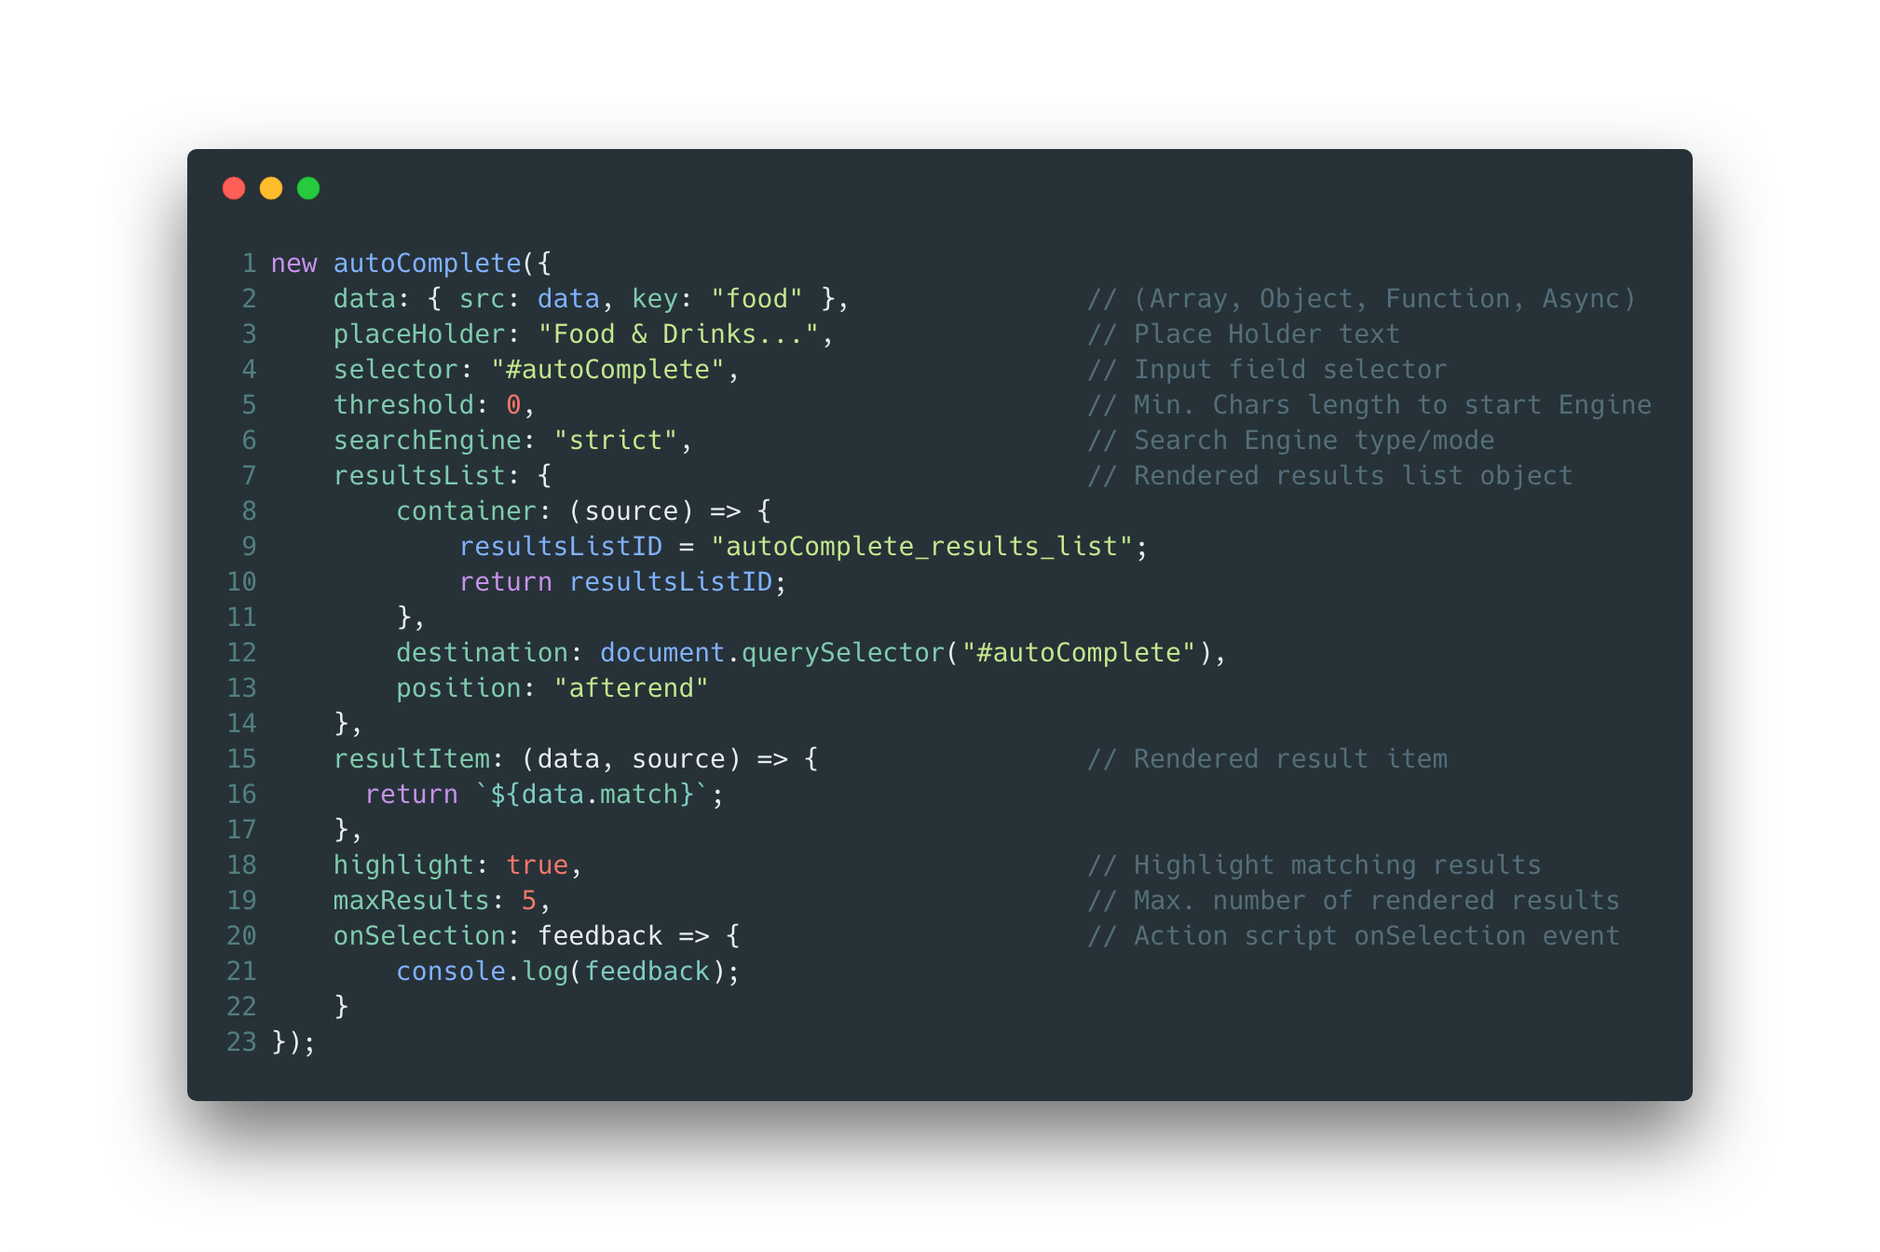
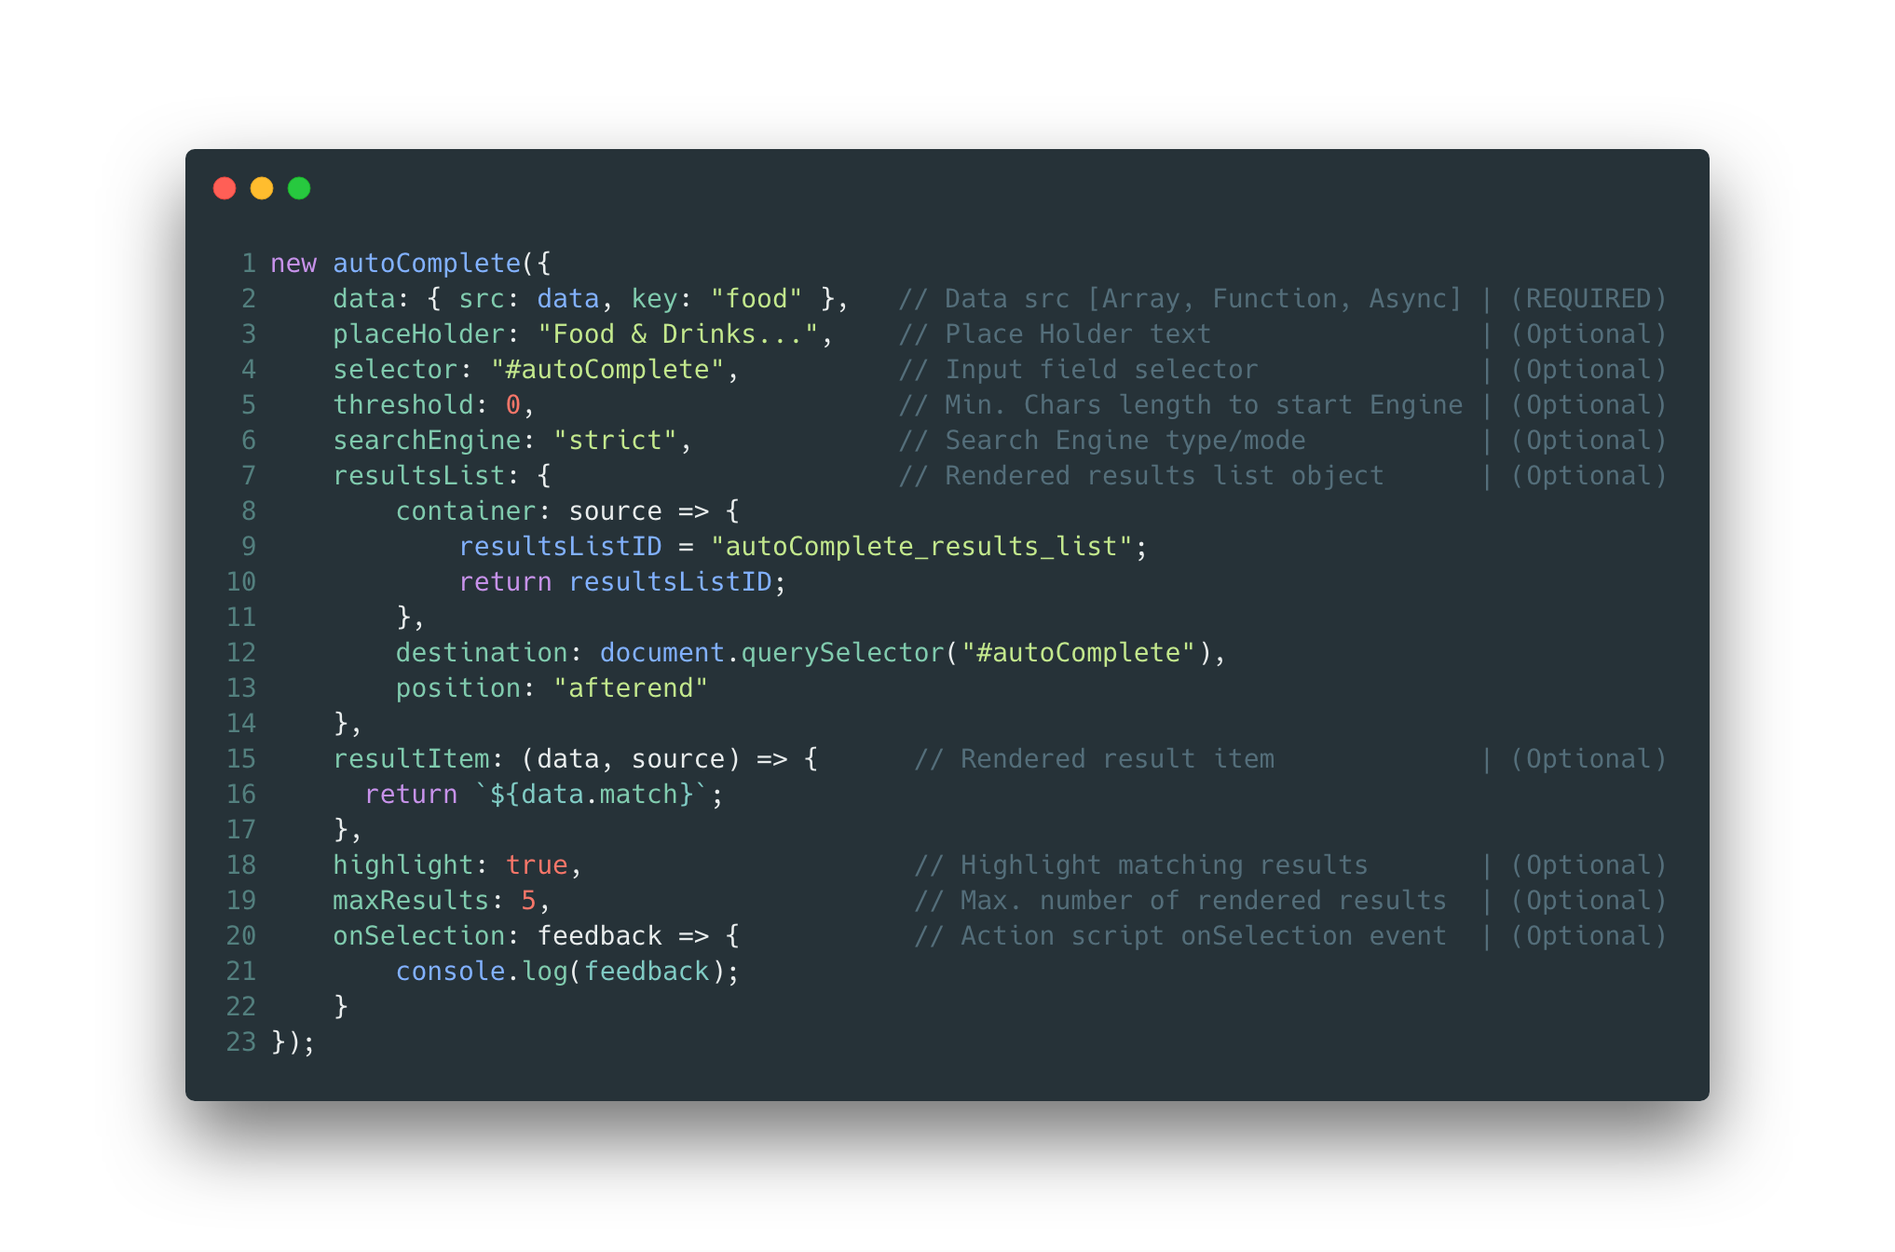
Version 3.2.2 => Release History for details

diff --git a/dist/js/autoComplete.min.js b/dist/js/autoComplete.min.js
@@ -1,1 +1,1 @@
-var a,b;a=this,b=function(){"use strict";function i(t,e){for(var s=0;s<e.length;s++){var n=e[s];n.enumerable=n.enumerable||!1,n.configurable=!0,"value"in n&&(n.writable=!0),Object.defineProperty(t,n.key,n)}}var a="data-result",l={resultsList:"autoComplete_results_list",result:"autoComplete_result",highlight:"autoComplete_highlighted"},u=function(t){return"string"==typeof t?document.querySelector(t):t()},c=function(t){return t.innerHTML=""},h=u,r=function(t){var e=document.createElement("ul");return t.container&&(l.resultsList=t.container(e)||l.resultsList),e.setAttribute("id",l.resultsList),t.destination.insertAdjacentElement(t.position,e),e},f=function(t){return"<span class=".concat(l.highlight,">").concat(t,"</span>")},o=function(i,r,o,u){r.forEach(function(t,e){var s=document.createElement("li"),n=r[e].source[o]||r[e].source;s.setAttribute(a,n),s.setAttribute("class",l.result),s.setAttribute("tabindex","1"),s.innerHTML=u?u(t,s):t.match||t,i.appendChild(s)})},d=function(t,s){var n=u(t),i=s.firstChild;document.onkeydown=function(t){var e=document.activeElement;switch(t.keyCode){case 38:e!==i&&e!==n?e.previousSibling.focus():e===i&&n.focus();break;case 40:e===n&&0<s.childNodes.length?i.focus():e!==s.lastChild&&e.nextSibling.focus()}}},p=c,v=function(s,n,i,r,o){n.querySelectorAll(".".concat(l.result)).forEach(function(e){["mousedown","keydown"].forEach(function(t){e.addEventListener(t,function(e){"mousedown"!==t&&13!==e.keyCode||(i({event:e,query:u(s).value,results:r.map(function(t){return t.source}),selection:r.find(function(t){return(t.source[o]||t.source)===e.target.closest(".".concat(l.result)).getAttribute(a)}).source}),c(n))})})})};return function(){function e(t){!function(t,e){if(!(t instanceof e))throw new TypeError("Cannot call a class as a function")}(this,e),this.selector=t.selector||"#autoComplete",this.data={src:function(){return"function"==typeof t.data.src?t.data.src():t.data.src},key:t.data.key},this.searchEngine="loose"===t.searchEngine?"loose":"strict",this.threshold=t.threshold||0,this.resultsList=r({container:t.resultsList.container,destination:t.resultsList.destination?t.resultsList.destination:h(this.selector),position:t.resultsList.position?t.resultsList.position:"afterend"}),this.placeHolder=t.placeHolder,this.maxResults=t.maxResults||5,this.resultItem=t.resultItem,this.highlight=t.highlight||!1,this.onSelection=t.onSelection,this.init()}var t,s,n;return t=e,(s=[{key:"search",value:function(t,e){var s=this.highlight,n=e.toLowerCase();if("loose"===this.searchEngine){t=t.replace(/ /g,"");for(var i=[],r=0,o=0;o<n.length;o++){var u=n[o];r<t.length&&u===t[r]&&(u=s?f(u):u,r++),i.push(u)}return r===t.length&&i.join("")}if(n.includes(t)&&s){var a=h(this.selector).value.toLowerCase();return n.replace(a,f(a))}}},{key:"listMatchedResults",value:function(t){var s=this,n=[],i=h(this.selector).value.toLowerCase();t.filter(function(t){var e=s.search(i,t[s.data.key]||t);e&&n.push({match:e,source:t})});var e=n.slice(0,this.maxResults);return o(this.resultsList,e,this.data.key,this.resultItem),d(this.selector,this.resultsList),e}},{key:"ignite",value:function(s){var n=this,i=this.selector,r=h(i),t=this.placeHolder,o=this.onSelection;t&&r.setAttribute("placeholder",t),r.onkeyup=function(){var t=n.resultsList;p(t);if(r.value.length>n.threshold&&r.value.replace(/ /g,"").length){var e=n.listMatchedResults(s);o&&v(i,t,o,e,n.data.key)}}}},{key:"init",value:function(){var e=this,t=this.data.src();t instanceof Promise?t.then(function(t){return e.ignite(t)}):this.ignite(t)}}])&&i(t.prototype,s),n&&i(t,n),e}()},"object"==typeof exports&&"undefined"!=typeof module?module.exports=b():"function"==typeof define&&define.amd?define(b):a.autoComplete=b();
+var a,b;a=this,b=function(){"use strict";function n(t,e){for(var s=0;s<e.length;s++){var i=e[s];i.enumerable=i.enumerable||!1,i.configurable=!0,"value"in i&&(i.writable=!0),Object.defineProperty(t,i.key,i)}}var a="data-result",l={resultsList:"autoComplete_results_list",result:"autoComplete_result",highlight:"autoComplete_highlighted"},u=function(t){return"string"==typeof t?document.querySelector(t):t()},c=function(t){return t.innerHTML=""},h=u,r=function(t){var e=document.createElement("ul");return t.container&&(l.resultsList=t.container(e)||l.resultsList),e.setAttribute("id",l.resultsList),t.destination.insertAdjacentElement(t.position,e),e},f=function(t){return"<span class=".concat(l.highlight,">").concat(t,"</span>")},o=function(n,r,o,u){r.forEach(function(t,e){var s=document.createElement("li"),i=r[e].source[o]||r[e].source;s.setAttribute(a,i),s.setAttribute("class",l.result),s.setAttribute("tabindex","1"),s.innerHTML=u?u(t,s):t.match||t,n.appendChild(s)})},d=function(t,s){var i=u(t),n=s.firstChild;document.onkeydown=function(t){var e=document.activeElement;switch(t.keyCode){case 38:e!==n&&e!==i?e.previousSibling.focus():e===n&&i.focus();break;case 40:e===i&&0<s.childNodes.length?n.focus():e!==s.lastChild&&e.nextSibling.focus()}}},p=c,v=function(s,i,n,r,o){i.querySelectorAll(".".concat(l.result)).forEach(function(e){["mousedown","keydown"].forEach(function(t){e.addEventListener(t,function(e){"mousedown"!==t&&13!==e.keyCode||(n({event:e,query:u(s).value,results:r.map(function(t){return t.source}),selection:r.find(function(t){return(t.source[o]||t.source)===e.target.closest(".".concat(l.result)).getAttribute(a)}).source}),c(i))})})})};return function(){function e(t){!function(t,e){if(!(t instanceof e))throw new TypeError("Cannot call a class as a function")}(this,e),this.selector=t.selector||"#autoComplete",this.data={src:function(){return"function"==typeof t.data.src?t.data.src():t.data.src},key:t.data.key},this.searchEngine="loose"===t.searchEngine?"loose":"strict",this.threshold=t.threshold||0,this.resultsList=r({container:!(!t.resultsList||!t.resultsList.container)&&t.resultsList.container,destination:t.resultsList&&t.resultsList.destination?t.resultsList.destination:h(this.selector),position:t.resultsList&&t.resultsList.position?t.resultsList.position:"afterend"}),this.placeHolder=t.placeHolder,this.maxResults=t.maxResults||5,this.resultItem=t.resultItem,this.highlight=t.highlight||!1,this.onSelection=t.onSelection,this.init()}var t,s,i;return t=e,(s=[{key:"search",value:function(t,e){var s=this.highlight,i=e.toLowerCase();if("loose"===this.searchEngine){t=t.replace(/ /g,"");for(var n=[],r=0,o=0;o<i.length;o++){var u=i[o];r<t.length&&u===t[r]&&(u=s?f(u):u,r++),n.push(u)}return r===t.length&&n.join("")}if(i.includes(t)){if(s){var a=h(this.selector).value.toLowerCase();return i.replace(a,f(a))}return i}}},{key:"listMatchedResults",value:function(t){var s=this,i=[],n=h(this.selector).value.toLowerCase();t.filter(function(t){var e=s.search(n,t[s.data.key]||t);e&&i.push({match:e,source:t})});var e=i.slice(0,this.maxResults);return o(this.resultsList,e,this.data.key,this.resultItem),d(this.selector,this.resultsList),e}},{key:"ignite",value:function(s){var i=this,n=this.selector,r=h(n),t=this.placeHolder,o=this.onSelection;t&&r.setAttribute("placeholder",t),r.onkeyup=function(){var t=i.resultsList;p(t);if(r.value.length>i.threshold&&r.value.replace(/ /g,"").length){var e=i.listMatchedResults(s);o&&v(n,t,o,e,i.data.key)}}}},{key:"init",value:function(){var e=this,t=this.data.src();t instanceof Promise?t.then(function(t){return e.ignite(t)}):this.ignite(t)}}])&&n(t.prototype,s),i&&n(t,i),e}()},"object"==typeof exports&&"undefined"!=typeof module?module.exports=b():"function"==typeof define&&define.amd?define(b):a.autoComplete=b();

diff --git a/dist/js/autoComplete.js b/dist/js/autoComplete.js
@@ -131,9 +131,9 @@
       this.searchEngine = config.searchEngine === "loose" ? "loose" : "strict";
       this.threshold = config.threshold || 0;
       this.resultsList = autoCompleteView.createResultsList({
-        container: config.resultsList.container,
-        destination: config.resultsList.destination ? config.resultsList.destination : autoCompleteView.getInput(this.selector),
-        position: config.resultsList.position ? config.resultsList.position : "afterend"
+        container: config.resultsList && config.resultsList.container ? config.resultsList.container : false,
+        destination: config.resultsList && config.resultsList.destination ? config.resultsList.destination : autoCompleteView.getInput(this.selector),
+        position: config.resultsList && config.resultsList.position ? config.resultsList.position : "afterend"
       });
       this.placeHolder = config.placeHolder;
       this.maxResults = config.maxResults || 5;
@@ -168,6 +168,8 @@
             if (highlight) {
               var inputValue = autoCompleteView.getInput(this.selector).value.toLowerCase();
               return recordLowerCase.replace(inputValue, autoCompleteView.highlight(inputValue));
+            } else {
+              return recordLowerCase;
             }
           }
         }

diff --git a/src/models/autoComplete.js b/src/models/autoComplete.js
@@ -15,11 +15,12 @@ export default class autoComplete {
 		this.threshold = config.threshold || 0;
 		// Rendered results destination
 		this.resultsList = autoCompleteView.createResultsList({
-			container: config.resultsList.container,
-			destination: config.resultsList.destination
-				? config.resultsList.destination
-				: autoCompleteView.getInput(this.selector),
-			position: config.resultsList.position ? config.resultsList.position : "afterend"
+			container: config.resultsList && config.resultsList.container
+				? config.resultsList.container : false,
+			destination: config.resultsList && config.resultsList.destination
+				? config.resultsList.destination : autoCompleteView.getInput(this.selector),
+			position: config.resultsList && config.resultsList.position
+				? config.resultsList.position : "afterend"
 		});
 		// Placeholder text
 		this.placeHolder = config.placeHolder;
@@ -78,7 +79,7 @@ export default class autoComplete {
 					return recordLowerCase.replace(inputValue, autoCompleteView.highlight(inputValue));
 					// If NOT Hightligthed
 				} else {
-					recordLowerCase;
+					return recordLowerCase;
 				}
 			}
 		}

diff --git a/docs/demo/index.html b/docs/demo/index.html
@@ -53,7 +53,7 @@
 		<meta name="msapplication-TileColor" content="#ffffff">
 		<meta name="msapplication-TileImage" content="/ms-icon-144x144.png">
 		<meta name="theme-color" content="#ffffff">
-		<link rel="stylesheet" type="text/css" media="screen" href="https://cdn.jsdelivr.net/gh/TarekRaafat/autoComplete.js@3.2.1/dist/css/autoComplete.min.css">
+		<link rel="stylesheet" type="text/css" media="screen" href="https://cdn.jsdelivr.net/gh/TarekRaafat/autoComplete.js@3.2.2/dist/css/autoComplete.min.css">
 		<link rel="stylesheet" type="text/css" media="screen" href="./css/main.css">
 		<link href="https://fonts.googleapis.com/css?family=PT+Sans" rel="stylesheet">
 	</head>
@@ -118,7 +118,7 @@
 				</div>
 			</footer>
 		</div>
-		<script src="https://cdn.jsdelivr.net/gh/TarekRaafat/autoComplete.js@3.2.1/dist/js/autoComplete.min.js"></script>
+		<script src="https://cdn.jsdelivr.net/gh/TarekRaafat/autoComplete.js@3.2.2/dist/js/autoComplete.min.js"></script>
 		<script src="./js/index.js"></script>
 	</body>
 

diff --git a/dist/css/autoComplete.css b/dist/css/autoComplete.css
@@ -26,7 +26,7 @@
 }
 
 #autoComplete:hover::placeholder {
-    color: rgb(255, 122, 122, 0.3);
+    color: rgba(255, 122, 122, 0.3);
     transition: all 0.3s ease;
     -webkit-transition: all -webkit-transform 0.3s ease;
 }
@@ -34,7 +34,7 @@
 #autoComplete:focus::placeholder {
     padding: 1rem 0.5rem;
     font-size: 1rem;
-    color: rgb(255, 122, 122, 0.3);
+    color: rgba(255, 122, 122, 0.3);
     transition: all 0.3s ease;
     -webkit-transition: all -webkit-transform 0.3s ease;
 }

diff --git a/docs/README.md b/docs/README.md
@@ -67,13 +67,13 @@ npm run build
 `CSS`
 
 ```html
-<link rel="stylesheet" href="https://cdn.jsdelivr.net/gh/TarekRaafat/autoComplete.js@3.2.1/dist/css/autoComplete.min.css">
+<link rel="stylesheet" href="https://cdn.jsdelivr.net/gh/TarekRaafat/autoComplete.js@3.2.2/dist/css/autoComplete.min.css">
 ```
 
 `JS`
 
 ```html
-<script src="https://cdn.jsdelivr.net/gh/TarekRaafat/autoComplete.js@3.2.1/dist/js/autoComplete.min.js"></script>
+<script src="https://cdn.jsdelivr.net/gh/TarekRaafat/autoComplete.js@3.2.2/dist/js/autoComplete.min.js"></script>
 ```
 
 -   <img src="https://cdn0.iconfinder.com/data/icons/HTML5/512/HTML_Logo.png" alt="HTML" width="40px"> HTML Local load
@@ -115,7 +115,7 @@ const autoComplete = require("@tarekraafat/autocomplete.js/dist/js/autoComplete"
 ```html
 <link rel="stylesheet" href="./css/autoComplete.css">
 OR
-<link rel="stylesheet" href="https://cdn.jsdelivr.net/gh/TarekRaafat/autoComplete.js@3.2.1/dist/css/autoComplete.min.css">
+<link rel="stylesheet" href="https://cdn.jsdelivr.net/gh/TarekRaafat/autoComplete.js@3.2.2/dist/css/autoComplete.min.css">
 ```
 
 2.  Assign the default `id` value `"autoComplete"` to the desired input field or use any custom `id/class` and configure the API selector accordingly in `Step 4`
@@ -130,7 +130,7 @@ OR
 <script src="./js/autoComplete.min.js"></script>
 <script src="./js/index.js"></script>
 OR
-<script src="https://cdn.jsdelivr.net/gh/TarekRaafat/autoComplete.js@3.2.1/dist/js/autoComplete.min.js"></script>
+<script src="https://cdn.jsdelivr.net/gh/TarekRaafat/autoComplete.js@3.2.2/dist/js/autoComplete.min.js"></script>
 <script src="./js/index.js"></script>
 ```
 
@@ -140,25 +140,25 @@ OR
 
 ```js
 new autoComplete({
-	data: { src: data, key: "food" },			   // (Array, Object, Function, Async)
-	placeHolder: "Food & Drinks...",				// Place Holder text
-	selector: "#autoComplete",					  // Input field selector
-	threshold: 0,								   // Min. Chars length to start
-	searchEngine: "strict",						 // Search Engine type/mode
-	resultsList: {							  	// Rendered results Container, Destination & Position
-		container: (source) => {
+	data: { src: data, key: "food" },	// Data src [Array, Function, Async] | (REQUIRED)
+	placeHolder: "Food & Drinks...",	 // Place Holder text 				| (Optional)
+	selector: "#autoComplete",		   // Input field selector 			 | (Optional)
+	threshold: 0,						// Min. Chars length to start Engine | (Optional)
+	searchEngine: "strict",			  // Search Engine type/mode 		  | (Optional)
+	resultsList: {					   // Rendered results list object 	 | (Optional)
+		container: source => {
 			resultsListID = "food_List";
 			return resultsListID;
 		},
 		destination: document.querySelector("#autoComplete"),
 		position: "afterend"
 	},
-	resultItem: (data, source) => {				 // Rendered result item
+	resultItem: (data, source) => {		// Rendered result item 		   | (Optional)
 		return `${data.match}`;
 	},
-	highlight: true,								// Highlight matching results
-	maxResults: 5,								  // Max. number of rendered results
-	onSelection: feedback => {					  // Action script onSelection event
+	highlight: true,					   // Highlight matching results 	 | (Optional)
+	maxResults: 5,						 // Max. number of rendered results | (Optional)
+	onSelection: feedback => {			 // Action script onSelection event | (Optional)
 		console.log(feedback);
 	}
 });
@@ -170,7 +170,7 @@ new autoComplete({
 
 | Features       | Description                                                      | Values                                                                                                                                                                                                                                                                                                                 | Default                                                                                                    |
 | -------------- | ---------------------------------------------------------------- | ---------------------------------------------------------------------------------------------------------------------------------------------------------------------------------------------------------------------------------------------------------------------------------------------------------------------- | ---------------------------------------------------------------------------------------------------------- |
-| `data`         | Data Source & Data Key                                           | **1- src**: <br> - `Array` of `Strings` / `Objects`<br>**OR**<br> - `Function` => `Array` of `Strings` / `Objects` <br> **2- key**: <br> **Required** if `src` is `Object`, it will point to `key` in the object for the search                                                                                        | **REQUIRED** any NOT both                                                                                  |
+| `data`         | Data Source & Data Key                                           | **1- src**: <br> - `Array` of `Strings` / `Objects`<br>**OR**<br> - `Function` => `Array` of `Strings` / `Objects` <br> **2- key**: <br> **Required** if `src` is `Object`, it will point to `key` in the object for the search                                                                                        | `data src` **REQUIRED** any NOT both                                                                       |
 | `placeHolder`  | Place Holder text                                                | `String`                                                                                                                                                                                                                                                                                                               | Blank / Empty                                                                                              |
 | `selector`     | Input field selector                                             | **-** `String` `id`/`class` <br>**OR**<br> **-** `Function` ( ) =>  `document.querySelector("")`                                                                                                                                                                                                                       | `"#autoComplete"`                                                                                          |
 | `threshold`    | Minimum characters length before engine starts rendering results | `Number`                                                                                                                                                                                                                                                                                                               | `0`                                                                                                        |

diff --git a/README.md b/README.md
@@ -52,13 +52,13 @@ git clone https://github.com/TarekRaafat/autoComplete.js.git
 `CSS`
 
 ```html
-<link rel="stylesheet" href="https://cdn.jsdelivr.net/gh/TarekRaafat/autoComplete.js@3.2.1/dist/css/autoComplete.min.css">
+<link rel="stylesheet" href="https://cdn.jsdelivr.net/gh/TarekRaafat/autoComplete.js@3.2.2/dist/css/autoComplete.min.css">
 ```
 
 `JS`
 
 ```html
-<script src="https://cdn.jsdelivr.net/gh/TarekRaafat/autoComplete.js@3.2.1/dist/js/autoComplete.min.js"></script>
+<script src="https://cdn.jsdelivr.net/gh/TarekRaafat/autoComplete.js@3.2.2/dist/js/autoComplete.min.js"></script>
 ```
 
 -   <a href="https://www.npmjs.com/package/@tarekraafat/autocomplete.js">npm</a> install `(Node Package Manager)`

diff --git a/docs/releases.md b/docs/releases.md
@@ -26,7 +26,12 @@ Release flags:
 
 ## Release Notes
 
--   v3.2.1 :sparkles:
+-   v3.2.2 :sparkles:
+
+    -   Fixed bug with `hightlight` API default value during `strict` engine mode
+    -   Fixed bug with `resultsList` API default value when not configured
+
+-   v3.2.1
 
     -   Isolated `resultsList` value for multiple instances **(Thanks @albu77)**
 
